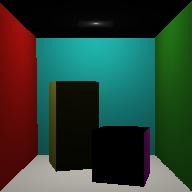
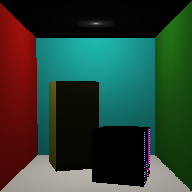
Refactor trace function

Changed region(s): [[0.75, 0.6562, 0.7812, 0.9688]]

diff --git a/pathtracer.cpp b/pathtracer.cpp
@@ -135,11 +135,16 @@ float intersect(triangle_t &tri, vec3f &ray, vec3f &eye)
     }
 }
 
-vec3f trace(Scene &scene, vec3f ray, vec3f eye)
+vec3f trace(Scene &scene, vec3f ray, vec3f eye,
+        int bounce=0, int max_bounces=3)
 {
-    vec3f closest_color(0.49, 0.75, 0.93); // Sky blue.
-    float closest_dist = std::numeric_limits<float>::infinity();
+    vec3f out_color(0.49, 0.75, 0.93); // Sky blue.
+    float cl_dist = std::numeric_limits<float>::infinity();
+    tinyobj::shape_t cl_shape;
+    vec3f cl_norm;
+    int cl_index;
 
+    bool hit = false;
     for (tinyobj::shape_t shape : scene.shapes) {
         tinyobj::mesh_t mesh = shape.mesh;
         for (int i=0; i < mesh.indices.size(); i += 3) {
@@ -153,22 +158,30 @@ vec3f trace(Scene &scene, vec3f ray, vec3f eye)
 
             float dist = intersect(tri, ray, eye);
 
-            if (dist < closest_dist && dist != 0) {
-                float* kd = scene.mats[mesh.material_ids[i / 3]].diffuse;
-                vec3f norm(mesh.normals[j1],
-                        mesh.normals[j1+1], mesh.normals[j1+2]);
-                vec3f light(0.0, 2.0, 0.0);
-                vec3f ip = eye + dist * ray;
-                vec3f to_l_temp = light - ip;
-                vec3f to_l = unit(to_l_temp);
-                float n_l = fabs(norm.dot(to_l));
-                closest_dist = dist;
-                closest_color = n_l * to_vec3f(kd);
+            if (dist < cl_dist && dist != 0) {
+                hit = true;
+                cl_dist = dist;
+                cl_shape = shape; // TODO pointer
+                cl_norm = to_vec3f(&mesh.normals[j1]);
+                cl_index = i;
             }
         }
     }
 
-    return closest_color;
+    if (hit) {
+        tinyobj::mesh_t mesh = cl_shape.mesh;
+        vec3f light(0.0, 2.0, 0.0);
+        vec3f ip = eye + cl_dist * ray;
+        vec3f to_l_temp = light - ip;
+        vec3f to_l = unit(to_l_temp);
+        float n_l = fabs(cl_norm.dot(to_l));
+        if (n_l > 1.0) goto out; // FIXME bug with pink square normals
+        float* kd = scene.mats[mesh.material_ids[cl_index / 3]].diffuse;
+        out_color = n_l * to_vec3f(kd);
+    }
+
+out:
+    return out_color;
 }
 
 int main(int argc, char* argv[])
